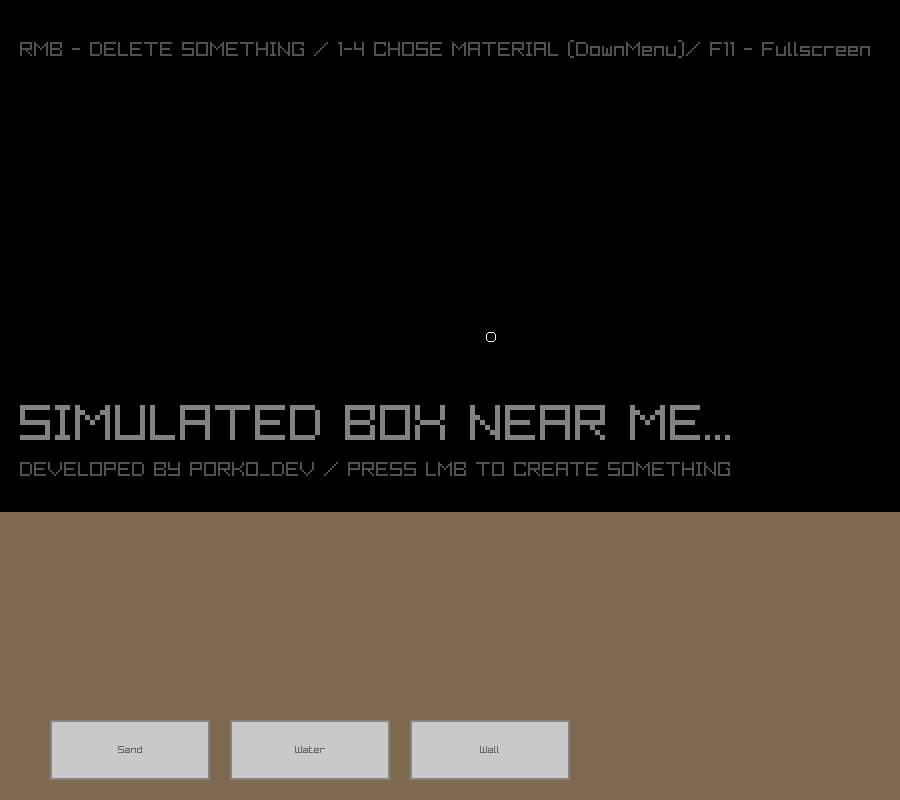
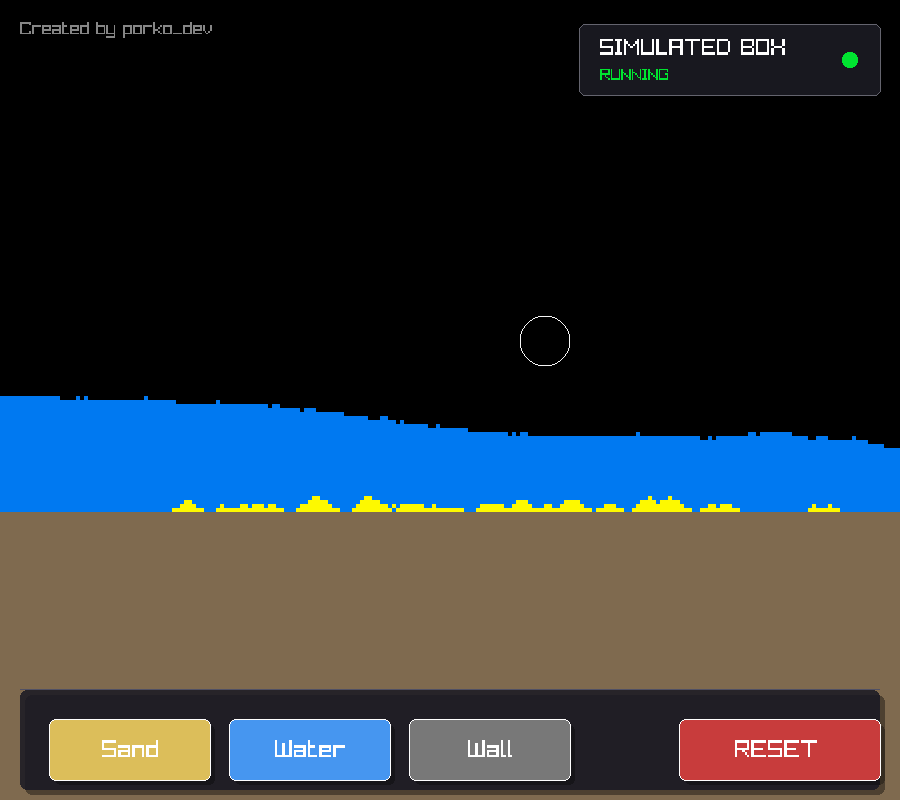
Ui update

diff --git a/SandEngine/Visuals/VisualEngine.py b/SandEngine/Visuals/VisualEngine.py
@@ -140,8 +140,9 @@ def get_wheel_rotation():
     return TMP_cursor_scale
 #its "UI" my honey
 Welcome_screen_shown = False
+debug_menu = False
 def draw_ui():
-    global Welcome_screen_shown
+    global Welcome_screen_shown , debug_menu
     mouse = pr.get_mouse_position()
     world_mouse = pr.get_screen_to_world_2d(mouse, camera)
 
@@ -157,6 +158,159 @@ def draw_ui():
         pr.draw_text("RMB - DELETE SOMETHING / 1-4 CHOSE MATERIAL (DownMenu)/ F11 - Fullscreen", 20,  40, 20,pr.DARKGRAY)
         if pr.is_mouse_button_down(pr.MouseButton.MOUSE_BUTTON_LEFT):
             Welcome_screen_shown = True
+    elif debug_menu:
+
+        panel_width = 320
+        panel_height = 220
+
+        panel = pr.Rectangle(
+            pr.get_screen_width() - panel_width - 20,
+            30,
+            panel_width,
+            panel_height
+        )
+
+
+        pr.draw_rectangle_rounded(
+            pr.Rectangle(
+                panel.x + 6,
+                panel.y + 6,
+                panel.width,
+                panel.height
+            ),
+            0.15,
+            12,
+            pr.Color(0, 0, 0, 120)
+        )
+
+
+        pr.draw_rectangle_rounded(
+            panel,
+            0.15,
+            12,
+            pr.Color(20, 22, 30, 230)
+        )
+
+
+        pr.draw_rectangle_rounded_lines(
+            panel,
+            0.15,
+            12,
+            pr.Color(100, 100, 120, 255)
+        )
+
+        pr.draw_text(
+            "DEBUG PANEL",
+            int(panel.x + 20),
+            int(panel.y + 15),
+            24,
+            pr.GREEN
+        )
+
+        pr.draw_line(
+            int(panel.x + 15),
+            int(panel.y + 50),
+            int(panel.x + panel.width - 15),
+            int(panel.y + 50),
+            pr.Color(80, 80, 100, 255)
+        )
+
+        mouse = pr.get_mouse_position()
+
+        debug_info = [
+            f"FPS: {pr.get_fps()}",
+            f"Mouse X: {int(mouse.x)}",
+            f"Mouse Y: {int(mouse.y)}",
+        ]
+
+        y = panel.y + 65
+
+        for text in debug_info:
+            pr.draw_text(
+                text,
+                int(panel.x + 20),
+                int(y),
+                18,
+                pr.LIGHTGRAY
+            )
+            y += 24
+        pr.draw_circle(
+            int(panel.x + panel.width - 30),
+            int(panel.y + 28),
+            8,
+            pr.GREEN
+        )
+    else:
+        pr.draw_text(
+            "Created by porko_dev",
+            20,
+            20,
+            18,
+            pr.Color(180, 180, 180, 190)
+        )
+
+        # Верхня інформаційна панель
+        panel_width = 300
+        panel_height = 70
+
+        panel = pr.Rectangle(
+            pr.get_screen_width() - panel_width - 20,
+            25,
+            panel_width,
+            panel_height
+        )
+
+        pr.draw_rectangle_rounded(
+            pr.Rectangle(
+                panel.x + 5,
+                panel.y + 5,
+                panel.width,
+                panel.height
+            ),
+            0.15,
+            10,
+            pr.Color(0, 0, 0, 90)
+        )
+
+        pr.draw_rectangle_rounded(
+            panel,
+            0.15,
+            10,
+            pr.Color(30, 30, 40, 200)
+        )
+
+        pr.draw_rectangle_rounded_lines(
+            panel,
+            0.15,
+            10,
+            pr.Color(100, 100, 110, 255)
+        )
+
+        pr.draw_text(
+            "SIMULATED BOX",
+            int(panel.x + 20),
+            int(panel.y + 12),
+            22,
+            pr.WHITE
+        )
+
+        pr.draw_text(
+            "RUNNING",
+            int(panel.x + 20),
+            int(panel.y + 42),
+            16,
+            pr.GREEN
+        )
+
+        pr.draw_circle(
+            int(panel.x + panel.width - 30),
+            int(panel.y + 35),
+            8,
+            pr.GREEN
+        )
+
+    if pr.is_key_pressed(pr.KeyboardKey.KEY_TAB):
+        debug_menu = not debug_menu
 
 # drawer function
 def visuals_root():

diff --git a/SandEngine/LogicsEngine.py b/SandEngine/LogicsEngine.py
@@ -52,19 +52,111 @@ def handle_controls():
 
 def handle_ui_buttons():
     global Curent_material
-
     button_width = 160
     button_height = 60
     spacing = 20
+    panel_height = button_height + 40
+
+
+    panel = pr.Rectangle(20,pr.get_screen_height() - panel_height - 10,pr.get_screen_width() - 40,panel_height)
+    pr.draw_rectangle_rounded(pr.Rectangle( panel.x + 5,panel.y + 5,panel.width,panel.height),0.15,12,pr.Color(0, 0, 0, 100))
+    pr.draw_rectangle_rounded( panel,0.15,12,pr.Color(25, 25, 35, 220))
+    pr.draw_line(int(panel.x),int(panel.y),int(panel.x + panel.width),int(panel.y),pr.Color(80, 80, 100, 255),)
+
 
     y = pr.get_screen_height() - button_height - 20
 
     buttons = [
-        (pr.Rectangle(50, y, button_width, button_height), "Sand", 2),
-        (pr.Rectangle(50 + button_width + spacing, y, button_width, button_height), "Water", 3),
-        (pr.Rectangle(50 + (button_width + spacing) * 2, y, button_width, button_height), "Wall", 4),
+        (pr.Rectangle(50, y, button_width, button_height), "Sand", 2, pr.Color(220, 190, 90, 255)),
+        (pr.Rectangle(50 + button_width + spacing, y, button_width, button_height), "Water", 3, pr.Color(70, 150, 240, 255)),
+        (pr.Rectangle(50 + (button_width + spacing) * 2, y, button_width, button_height), "Wall", 4, pr.Color(120, 120, 120, 255)),
     ]
 
-    for rect, text, material in buttons:
-        if pr.gui_button(rect, text):
+    mouse = pr.get_mouse_position()
+
+    for rect, text, material, color in buttons:
+        hovered = pr.check_collision_point_rec(mouse, rect)
+
+        shadow = pr.Rectangle(rect.x + 5, rect.y + 5, rect.width, rect.height)
+        pr.draw_rectangle_rounded(shadow, 0.2, 10, pr.Color(0, 0, 0, 80))
+
+
+        if hovered:
+            color = pr.Color(
+                min(color.r + 30, 255),
+                min(color.g + 30, 255),
+                min(color.b + 30, 255),
+                255
+            )
+
+        pr.draw_rectangle_rounded(rect, 0.2, 10, color)
+
+
+        pr.draw_rectangle_rounded_lines(
+            rect,
+            0.2,
+            10,
+            pr.WHITE
+        )
+
+
+        text_width = pr.measure_text(text, 24)
+        pr.draw_text(
+            text,
+            int(rect.x + rect.width / 2 - text_width / 2),
+            int(rect.y + 18),
+            24,
+            pr.WHITE
+        )
+
+        if hovered and pr.is_mouse_button_pressed(pr.MouseButton.MOUSE_BUTTON_LEFT):
             Curent_material = material
+
+
+
+    reset_rect = pr.Rectangle(
+        pr.get_screen_width() - 220,
+        y,
+        200,
+        60
+    )
+
+    hovered = pr.check_collision_point_rec(mouse, reset_rect)
+
+    reset_color = pr.Color(200, 60, 60, 255)
+    if hovered:
+        reset_color = pr.Color(240, 80, 80, 255)
+
+    pr.draw_rectangle_rounded(
+        pr.Rectangle(reset_rect.x + 5, reset_rect.y + 5,
+                     reset_rect.width, reset_rect.height),
+        0.2,
+        10,
+        pr.Color(0,0,0,80)
+    )
+
+    pr.draw_rectangle_rounded(
+        reset_rect,
+        0.2,
+        10,
+        reset_color
+    )
+
+    pr.draw_rectangle_rounded_lines(
+        reset_rect,
+        0.2,
+        10,
+        pr.WHITE
+    )
+
+    text = "RESET"
+    pr.draw_text(
+        text,
+        int(reset_rect.x + 55),
+        int(reset_rect.y + 18),
+        24,
+        pr.WHITE
+    )
+
+    if hovered and pr.is_mouse_button_pressed(pr.MouseButton.MOUSE_BUTTON_LEFT):
+        load_map()